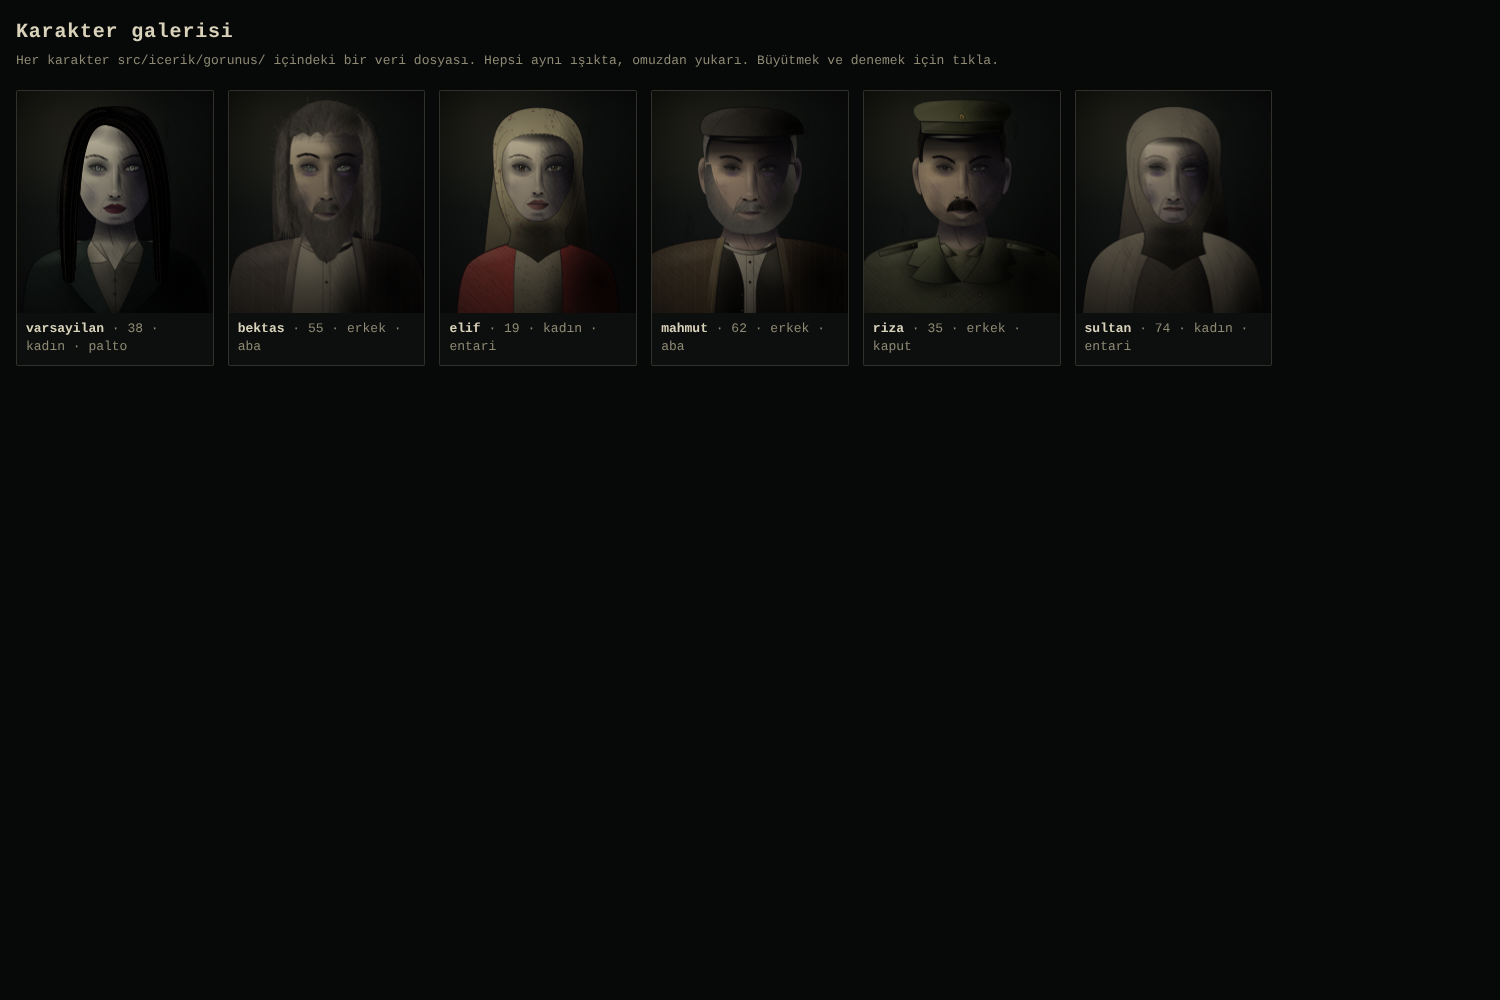
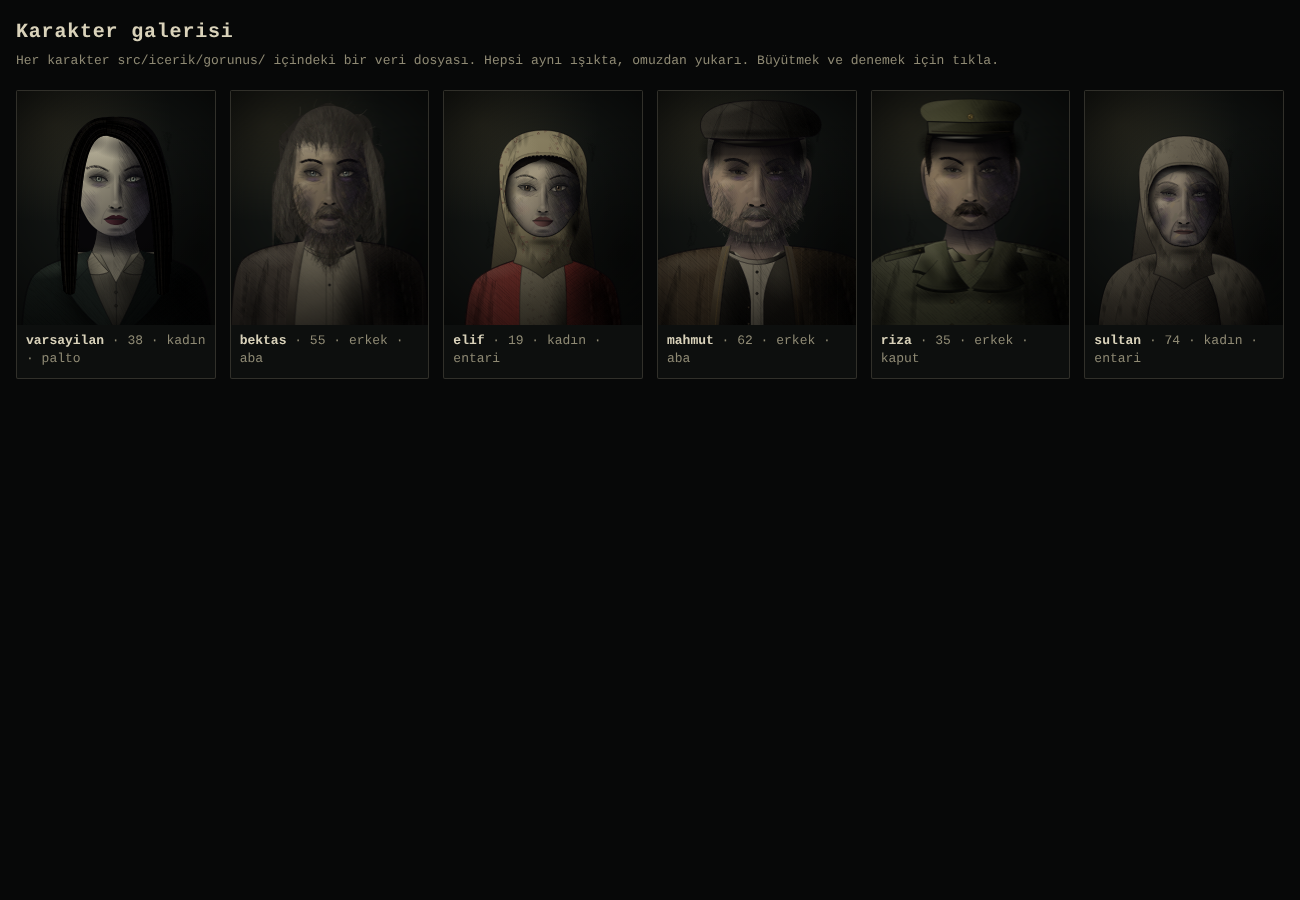
Karakter iskeleti kalite turu: yüz yapısı, başlık kaynaşması, tel dokusu, boy
Claude-Session: https://claude.ai/code/session_015fAnPMKLT8XYTEFeZ15TZf

diff --git a/src/cizim/rig/baslik.js b/src/cizim/rig/baslik.js
@@ -74,15 +74,16 @@ function ortuOn(){
   const yol=()=>{ortuDis(O); ortuPencere(O);};
   c.beginPath(); yol(); c.save(); c.clip('evenodd');
   const g=c.createLinearGradient(-O.w,O.ust,O.w,O.alt);
-  g.addColorStop(0,rgba(karistir(R,'#cfc8a8',.18),1)); g.addColorStop(.4,rgba(R,1)); g.addColorStop(1,rgba(karistir(R,[0,0,0],.8),1));
+  g.addColorStop(0,rgba(karistir(R,'#cfc8a8',.18),1)); g.addColorStop(.4,rgba(R,1)); g.addColorStop(1,rgba(karistir(R,[0,0,0],G.ozel?.6:.8),1));
   c.fillStyle=g; c.fillRect(-O.w-20,O.ust-10,O.w*2+40,O.alt-O.ust+90);
+  if(G.ozel) leke(-50,O.alt-20,110,70,karistir(R,'#ddd4b4',.25),.22*poz.isik); // boyna dolanan kumaş: çene altı sakal gibi kararmasın
   if(!O.sal&&G.baslik.desen!=='duz') benek(-O.w,O.ust,O.w,O.alt,63);
   if(O.sal){ // kaba yün: kısa lifler
     const r=rng(66); for(let i=0;i<700;i++){const x=-O.w+r()*O.w*2, y=O.ust+r()*(O.alt-O.ust), a=r()*TAU, L=3+r()*6; c.strokeStyle=rgba(r()<.5?karistir(R,'#d0c6a6',.3):karistir(R,[0,0,0],.5),.22+r()*.2); c.lineWidth=1+r(); c.beginPath(); c.moveTo(x,y); c.lineTo(x+Math.cos(a)*L,y+Math.sin(a)*L); c.stroke();}
   }
   leke(-O.w*.5,O.ust+80,O.w*.42,80,karistir(R,'#ddd4b4',.3),.3*poz.isik,-.4);
   leke(O.w*.8,60,O.w*.5,300,PAL.siyah,.75);
-  leke(0,O.alt-10,O.w*.9,110,PAL.siyah,G.ozel?.35:.55);
+  leke(G.ozel?O.w*.35:0,O.alt-10,O.w*.9,110,PAL.siyah,G.ozel?.3:.55);
   leke(0,250*O.b,120,50,PAL.siyah,G.ozel?.18:.5); // çenenin altındaki gölge
   if(G.ozel){ ortuKivrim(O,R,k); ortuYuzGolgesi(O,k); }
   tara(O.w*.15,O.ust,O.w+10,O.alt+70,1.05,7,PAL.murekkep,.42,640+k,1.1);
@@ -242,6 +243,7 @@ function kep(){
 }
 function takke(){
   const Y=G.yuz, e=Y.en, u=Y.alin, R=renkAl(), k=poz.kaynama, alt=G.baslik.tur==='sarik'?-170*u:-150*u;
+  if(G.ozel&&G.baslik.tur==='takke'){ c.save(); c.beginPath(); yuzYolu(); c.clip(); leke(0,alt+14,150*e,22,PAL.siyah,.45); c.restore(); yanGolge(alt,e); }
   const yol=()=>{c.moveTo(-132*e,alt); c.bezierCurveTo(-140*e,-236*u,-60*e,-250*u,0,-250*u); c.bezierCurveTo(60*e,-250*u,140*e,-236*u,132*e,alt); c.quadraticCurveTo(0,alt+10,-132*e,alt); c.closePath();};
   kumas(yol,[-140*e,-250*u,140*e,alt+10],{renk:R,seed:700,tara:.7,desen:()=>{const r=rng(701); c.fillStyle=rgba(karistir(R,[0,0,0],.4),.5); for(let i=0;i<220;i++) c.fillRect(-140*e+r()*280*e,-250*u+r()*(alt+250*u),1.6,1.6);}});
   titrek(()=>{c.moveTo(-128*e,alt-8); c.quadraticCurveTo(0,alt+2,128*e,alt-8);},PAL.murekkep,.4,1.1,702+k,2,1.4);
@@ -251,6 +253,7 @@ function sarik(){
   const Y=G.yuz, e=Y.en, u=Y.alin, R=renkAl(), k=poz.kaynama;
   const yol=()=>{c.moveTo(-176*e,-132*u); c.bezierCurveTo(-206*e,-168*u,-190*e,-214*u,-120*e,-218*u); c.quadraticCurveTo(0,-226*u,120*e,-218*u); c.bezierCurveTo(190*e,-214*u,206*e,-168*u,176*e,-132*u); c.quadraticCurveTo(0,-112*u,-176*e,-132*u); c.closePath();};
   c.save(); c.beginPath(); yuzYolu(); c.clip(); leke(0,-100*u,180*e,34,PAL.siyah,.6); c.restore();
+  if(G.ozel) yanGolge(-132*u,e);
   kumas(yol,[-206*e,-226*u,206*e,-112*u],{renk:R,seed:710,tara:.8});
   // sargı katları
   for(let i=0;i<4;i++){ titrek(()=>{c.moveTo(-170*e,(-140-i*20)*u); c.bezierCurveTo(-90*e,(-178-i*14)*u,60*e,(-128-i*20)*u,180*e,(-170-i*12)*u);},PAL.murekkep,.45,1.2,711+i+k,2,1.6); }

diff --git a/prototip/karakterler/index.html b/prototip/karakterler/index.html
@@ -22,12 +22,12 @@ header p{margin:6px 0 0;color:var(--soluk);font-size:13px}
 .izgara{display:grid;grid-template-columns:repeat(auto-fill,minmax(190px,1fr));gap:14px;padding:14px 16px 24px}
 .kart{background:var(--kart);border:1px solid var(--cizgi);border-radius:2px;padding:0;cursor:pointer;color:inherit;font:inherit;text-align:left}
 .kart:hover,.kart:focus-visible{border-color:var(--metin);outline:none}
-.kart canvas{display:block;width:100%;aspect-ratio:760/860}
+.kart canvas{display:block;width:100%;aspect-ratio:760/900}
 .kart span{display:block;padding:7px 9px 9px;font-size:13px;color:var(--soluk)}
 .kart b{color:var(--metin);font-weight:700}
 .buyuk{position:fixed;inset:0;background:rgba(3,4,4,.94);display:none;flex-direction:column;align-items:center;justify-content:center;gap:10px;padding:16px}
 .buyuk.acik{display:flex}
-.buyuk canvas{width:min(92vw,62vh);aspect-ratio:760/860;border:1px solid var(--cizgi)}
+.buyuk canvas{width:min(92vw,62vh);aspect-ratio:760/900;border:1px solid var(--cizgi)}
 .altyazi{min-height:1.4em;margin:0;font-weight:700;font-size:18px;text-align:center}
 .dugmeler{display:flex;gap:8px;flex-wrap:wrap;justify-content:center}
 .d{text-decoration:none;font:inherit;font-size:14px;color:var(--soluk);background:transparent;border:1px solid var(--cizgi);border-radius:2px;padding:7px 12px;cursor:pointer}

diff --git a/src/cizim/rig/yapi.js b/src/cizim/rig/yapi.js
@@ -59,8 +59,9 @@ export function yapiBoya(fx,fy,mx,dyA){
   for(let i=0;i<170;i++){
     const x=(-150+r()*300)*e, y=(-190+r()*400)*b, sol=x<0;
     const renk=[sol?R.tenIsik:R.tenGolge,R.tenOrta,PAL.morluk,KUF,SARI,R.tenDerin][Math.floor(r()*6)];
-    const a=y<-90?(r()-.5)*.6:Math.PI/2+(x/160)*.5+(r()-.5)*.5, L=12+r()*30;
-    c.strokeStyle=rgba(renk,(.05+r()*.08)*(.8+yasli*.6)); c.lineWidth=4+r()*10;
+    // fırça yönü yüzün biçimini izler: alında yatay, yanakta elmacıktan ağza doğru çapraz
+    const a=y<-90?(r()-.5)*.6:Math.PI/2+Math.sign(x||1)*-.7+(r()-.5)*.6, L=10+r()*22;
+    c.strokeStyle=rgba(renk,(.05+r()*.08)*(.8+yasli*.6)); c.lineWidth=5+r()*11;
     c.beginPath(); c.moveTo(x,y); c.quadraticCurveTo(x+Math.cos(a)*L*.5+(r()-.5)*8,y+Math.sin(a)*L*.5,x+Math.cos(a)*L,y+Math.sin(a)*L); c.stroke();
   }
   // gençlik: dolgun, yuvarlak yanak ışığı ve hafif kan rengi

diff --git a/prototip/karakterler/galeri.js b/prototip/karakterler/galeri.js
@@ -8,7 +8,7 @@ import {poz,karakterSec,arkaSac,govde,kafa} from '/src/cizim/rig/index.js';
 import {konus,sus,konusmaOlay,sozGuncelle} from '/src/diyalog/konusma.js';
 import {gorunusListesi} from '/src/icerik/gorunus/index.js';
 
-const KADRAJ={x0:-380,y0:170,w:760,h:860}, KAFA_Y=470;
+const KADRAJ={x0:-380,y0:130,w:760,h:900}, KAFA_Y=470; // üstte pay: uzun boylu ve şapkalı karakterin başı kesilmesin
 const NOTR={...poz};
 // deneme cümleleri (galeri için; oyunda metin dil dosyasından gelir)
 const CUMLE={

diff --git a/src/cizim/rig/README.md b/src/cizim/rig/README.md
@@ -6,7 +6,10 @@ Bütün karakterler aynı çizim koduyla çizilir. Bir karakteri ayıran şey ya
 
 - `gorunus.js`: `karakterSec(veri)` etkin görünüşü seçer. Hiç çağrılmazsa `varsayilan.js` (sorgu odasındaki ilk kadın) çizilir. `gorunusKur(veri)` eksik alanları doldurur, renkleri diziye çevirir.
 - `poz.js`: her karede değişen durum (bakış, göz kırpma, kaş, ağız, nefes, ışık, kaynama). Bütün karakterlerde aynıdır.
-- `yuz.js` (`kafa`, `goz`, `kas`), `sac.js` (`arkaSac`, `onSac`), `sakal.js`, `baslik.js`, `govde.js` (`govde`, `altGovde`), `doku.js` (tel ve kumaş dokusu).
+- `yuz.js` (`kafa`, `goz`, `kas`), `sac.js` (`arkaSac`, `onSac`), `sakal.js`, `baslik.js`, `govde.js` (`govde`, `altGovde`), `doku.js` (tel ve kumaş dokusu: `lifDoldur`, `lifKutle`, `kumas`, `kivrimlar`).
+- `yapi.js`: yüz yapısı (yaşın ve kemiğin yüze yazılması), başlığın yüze düşürdüğü iç gölge (`icGolge`), boy ve irilik dönüşümü (`figurDonusumu`).
+
+**İki çizim yolu.** Varsayılan kadın (`id:'varsayilan'`) eski yolla çizilir ve prototiple birebir aynı kalır. Öteki bütün görünüşlerde `G.ozel` doğrudur ve yeni yol çalışır: yaşa ve kemiğe göre yüz silüeti ve gölge, yalnızca gölge bölgelerinde kırpılmış tarama, çamurlu fırça dokusu, değişken kalınlıkta yüz hattı; örtünün altından görünen saç ve örtünün yüze düşen yumuşak gölgesi; tel tel sakal, bıyık ve saç (`lifKutle`: kenar kesik değil, teller silüetten taşar); kumaşta kıvrım ve ağırlık. Yeni yolda bir şeyi değiştirmek sorgu odasını etkilemez; eski yola (`!G.ozel` dalları, "çarpan 1 ise" dalları) dokunma.
 - `index.js`: tek giriş noktası.
 
 Çizim sırası sahnedeki gibidir: `altGovde` (yalnızca ayaktayken), `arkaSac` (kafa konumunda), `govde`, `kafa` (kafa konumunda, `OLCU.kafaY`).
@@ -54,7 +57,22 @@ Boş bırakılan alan varsayılanı alır. Erkekte (`cinsiyet:'E'`) yüz ölçü
 | `agizY` | -6 - 8 (birim) | ağzın ek dikey kayması |
 | `boyun` | .88 - 1.35 | boyun kalınlığı |
 
-Aralıkların dışı denenmedi; dışına çıkarsan galeride kontrol et.
+Aralıkların dışı denenmedi; dışına çıkarsan galeride kontrol et. (`boy` .9 Elif'te denendi: çok genç, yuvarlak yüz için.)
+
+### `yapi` (isteğe bağlı; verilmezse yaştan, cinsiyetten ve `yasIzi`'nden türetilir, 0-1)
+
+Yalnızca yeni yolda (varsayılan kadın dışındaki herkes) kullanılır. Işık bütün karakterlerde aynıdır; bu alanlar gölgenin nereye düştüğünü değiştirir.
+
+| Alan | Türetme | Ne yapar |
+| --- | --- | --- |
+| `cukur` | .55 + yaş (erkekte +.12), .55-1.42 | göz çukuru derinliği: kaş altı karanlığı, dış köşe çöküntüsü ve taraması |
+| `dolgun` | 1 (20 yaş) → 0 (52 yaş) | gençlik dolgunluğu: yuvarlak yanak ışığı, hafif kan rengi, burun-dudak çizgisi silik, elmacık altı gölgesi zayıf |
+| `sarkik` | 46 yaşından sonra artar | çene altı ve gıdı sarkması: silüet aşağı-dışa, gıdı hattı ve gölgesi |
+| `sakak` | 38 yaşından sonra + çökük yanak | şakak çukuru: silüet içe, leke, tarama, kıvrım çizgisi |
+| `kemik` | erkek .45 / kadın .2 + çökük yanak + yaş | elmacık çıkıntısı ve altındaki çapraz çukur; erkekte köşeli çene açısı ve düz çene hattı |
+| `kulak` | 1 + yaş × .16 | kulak büyüklüğü (yaşla büyür) |
+
+Örnek: sıska bir genç için `yapi:{kemik:.9, dolgun:.2}`; tombul bir yaşlı için `yapi:{dolgun:.5, kemik:.1}`.
 
 ### `renk` (hepsi `'#rrggbb'`)
 
@@ -88,6 +106,8 @@ Verilmezse yaştan türetilir (25 yaşında hepsi düşük, 75 yaşında yüksek
 
 Kulaklar `kisa`, `kel`, `toplu` ve şapkalarda görünür; `uzun`, `dagnik`, yemeni ve şalda görünmez.
 
+**Geriye uyumluluk:** şema yalnızca genişledi (`yapi`, `boy`, `iri` eklendi; hepsi isteğe bağlı). Var olan alanların anlamı değişmedi, ama yeni yolda aynı sayılar artık daha belirgin bir yüz yapısı verir (özellikle erkekte `cene`/`ceneUc` ile köşeli çene). Eski görünüş dosyaları değişmeden çalışır.
+
 ### `sakal`, `biyik`
 
 | Alan | Değer |
@@ -107,7 +127,7 @@ Sakalın üst kenarı yanakta tene karışarak erir. Ağız mekaniği değişmez
 | `desen` | yemenide `'duz'` benekleri kapatır |
 | `desenRenk` | yemeni benek rengi |
 
-Yemeni ve şal saçı tamamen örter (saç biçimi önemsizleşir), yüzün kenarını da örter. Kasket ve kep alına koyu bir gölge düşürür.
+Yemeni ve şal saçı örter; yeni yolda alın kenarının altından ortadan ayrılmış saç görünür (saç rengi ve `kirSac` ile). Kumaş alını ve şakakları örter, yanaktan aşağısında yüzün kendi hattı kumaşın önünde kalır (yüz "delikteki maske" gibi durmasın diye) ve kumaş yüze yumuşak bir iç gölge düşürür. Kasket, kep, takke ve sarık alına ve yanlara (kulak, şakak saçı) koyu gölge düşürür.
 
 ### Gövde
 
@@ -121,6 +141,10 @@ Yemeni ve şal saçı tamamen örter (saç biçimi önemsizleşir), yüzün kena
 | `giysi.kenar` | aba ve cübbede işlemeli kenar çizgisi (ağa için soluk sırma) |
 | `giysi.hirka` | entari üstünde hırka rengi (Elif'in kırmızı yün hırkası) |
 | `omuz` | .85 - 1.25, omuz genişliği; boyun çevresi sabit kalır |
+| `boy` | .9 - 1.08 (1 = varsayılan kadın). Oturan figürde her %1 başı ve gövdeyi 7 birim kaldırır (`BOY_BIRIM` 700). Yan yana gelince oranlar için: iri erkek 1.04-1.06, kadın .95-1, çok yaşlı .9-.93 |
+| `iri` | .93 - 1.08, bütün figürün (baş + gövde) ölçeği, baş merkezi çevresinde. Heybetli 1.05-1.06, ufak tefek .93-.95 |
+
+`boy` ve `iri` ikisi de 1 ise hiçbir dönüşüm yapılmaz. Örnekler: Mahmut 1.04/1.06, Rıza 1.05/1.03, Bektaş 1.03/.97, Elif .95/.95, Sultan .92/.93.
 
 Örtünün alt kenarı ayaktayken etek rengine erir; bacak çizilmez, eller yalnızca etekte koyu leke olarak görünür.
 
@@ -129,8 +153,9 @@ Yemeni ve şal saçı tamamen örter (saç biçimi önemsizleşir), yüzün kena
 1. `KOY-HALKI.md` içinden kişiyi oku: yaş, cinsiyet, mizaç, giysi ve eşya. `src/icerik/kisiler/<id>.js` içindeki `ortu` alanını aynen al.
 2. `src/icerik/gorunus/<id>.js` dosyasını aç. En yakın örneği kopyala: `mahmut.js` (yaşlı, sakallı erkek), `riza.js` (orta yaşlı, bıyıklı, şapkalı erkek), `bektas.js` (dağınık), `elif.js` (genç kadın, yemeni), `sultan.js` (çok yaşlı kadın, şal).
 3. Kişiliği yüze çevir, ama abartma: sert = dar göz (`gozBoy` .76-.82) ve eksi `kasEgim`; korkak = iri göz (`gozBoy` 1.1) ve artı `kasEgim`; gururlu = ağır kapak (`gozKapak` .4-.6) ve geniş çene. Başka bir köylüye benzememesi için en az üç belirgin şeyi değiştir: baş örtüsü ya da şapka, sakal/bıyık, yüz biçimi (en, boy, çene), ten ve saç rengi.
-4. Dosyanın başına bir yorum yaz: kim olduğu ve görünüşünün özeti.
-5. Kontrol et (aşağıda). `npx eslint src/icerik/gorunus` temiz olmalı.
+4. `boy` ve `iri` ver (yan yana gelince oranlar); yüz yapısı yaştan türetilir, karakter özelse `yapi` ile ez (sıska: `kemik` yüksek, `dolgun` düşük).
+5. Dosyanın başına bir yorum yaz: kim olduğu ve görünüşünün özeti.
+6. Kontrol et (aşağıda). `npx eslint src/icerik/gorunus` temiz olmalı.
 
 Dosya otomatik toplanır (`src/icerik/gorunus/index.js`); başka hiçbir dosyaya ekleme yapma.
 
